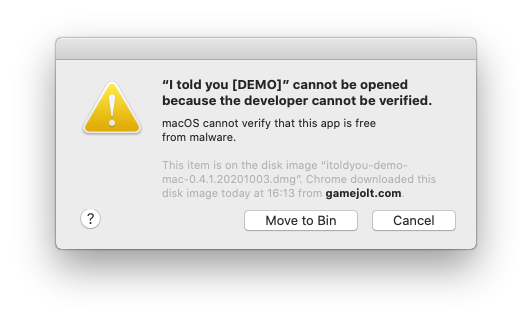
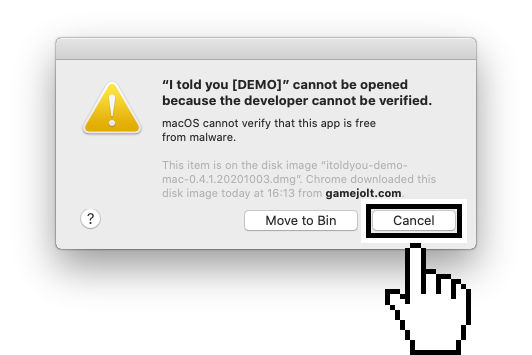
fix

diff --git a/i-told-you/macOS/instructions.md b/i-told-you/macOS/instructions.md
@@ -8,20 +8,18 @@ This *beta* package is available on the following platforms:
 
 macOS will prevent you from running this package, because it is not signed and notarized.
 
-![macOS warning message](i-told-you/macOS/1.png)
-
 If [the Kickstarter campaign](https://rebrand.ly/itoldyou-kickstarter-not-ready){:target="_blank" rel="noopener"} for funding the development of <span class="nowrap">***I told you***</span> reaches its goal, I will buy a Mac and properly sign, notarize and test the full game.
 
 Meanwhile, in order to run this prelaunch demo, please follow these steps:
 
-Open *System Preferences* and click on "Security & Privacy".
+Click on "Cancel" when you see this dialog.
+
+![macOS warning message](i-told-you/macOS/1.png)
+
+Right-click the icon of the application and select "Open".
 
 ![Click on "Security & Privacy"](i-told-you/macOS/2.png)
 
-Click on "Open Anyway".
-
-![Click on "Open Anyway"](i-told-you/macOS/3.png)
-
 Click on "Open".
 
-![Click on "Open"](i-told-you/macOS/4.png)
+![Click on "Open Anyway"](i-told-you/macOS/3.png)
